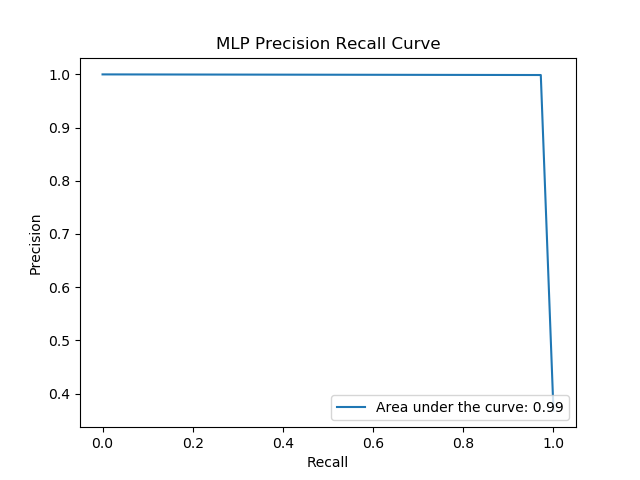
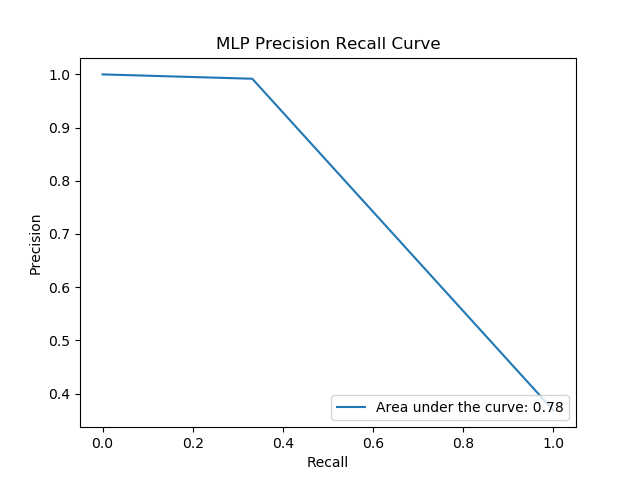
updated graphs

diff --git a/main.py b/main.py
@@ -25,7 +25,7 @@ def readCSV():
     titles = data[0]
     data = np.array(data[1:])
     
-
+    # pylint: disable=unsubscriptable-object
     end_idx = data.shape[1]-1
     for i in range(end_idx+1):
         try:
@@ -84,7 +84,7 @@ def main():
         if (save_plots):
             plot_auc("KNN", t_test, knn_classifier.predict(x_test))
             plot_prec_rec("KNN", t_test, knn_classifier.predict(x_test))
-            # plot_learning_curve(knn_classifier, "KNN", x_train, t_train)
+            plot_learning_curve(knn_classifier, "KNN", x_train, t_train)
 
     if all_models or 'sgd' in subset:    
         sgd_classifier = get_sgd(x_train, t_train, x_val, t_val, search)
@@ -92,7 +92,7 @@ def main():
         if (save_plots):
             plot_auc("SGD", t_test, sgd_classifier.predict(x_test))
             plot_prec_rec("SGD", t_test, sgd_classifier.predict(x_test))
-            # plot_learning_curve(sgd_classifier, "SGD", x_train, t_train)
+            plot_learning_curve(sgd_classifier, "SGD", x_train, t_train)
 
     if all_models or 'mlp' in subset:   
         mlp_classifier = get_mlp(x_train, t_train, x_val, t_val, search)
@@ -100,7 +100,7 @@ def main():
         if (save_plots):
             plot_auc("MLP", t_test, mlp_classifier.predict(x_test))
             plot_prec_rec("MLP", t_test, mlp_classifier.predict(x_test))
-            # plot_learning_curve(mlp_classifier, "MLP", x_train, t_train)
+            plot_learning_curve(mlp_classifier, "MLP", x_train, t_train)
 
     majority_guess = get_majority(x_train, t_train)
     uniform_guess = get_uniform(x_train, t_train)
@@ -177,7 +177,7 @@ def get_knn(x_train, t_train, x_val, t_val, search=False):
     # KNN tested at (array([0.88484087, 0.88107203, 0.89007538, 0.88628272, 0.89256545]), 0.6603707265070087, 0.9209732808442919)
     if search:
         knn_params = param_sel(x_train, t_train, KNeighborsClassifier(), {
-            'n_neighbors': [ 3, 10, 20],
+            'n_neighbors': [ 1, 3, 5, 10, 20],
             'weights': ['uniform', 'distance'],
             'algorithm': ['ball_tree', 'kd_tree',],
             'p': [1, 2]})
@@ -226,7 +226,7 @@ def get_mlp(x_train, t_train, x_val, t_val, search=False):
     if search:
 
         mlp_params = param_sel(x_train, t_train, MLPClassifier(max_iter=1000), {
-            'alpha': [ 0.01, 0.06, 0.1, 0.6],
+            'alpha': [ 0.06, 0.1,],
             'hidden_layer_sizes': [(20,20,10), (100,)],
             'activation': ['relu', 'tanh'],
             'solver': ['sgd', 'adam'],

diff --git a/paper/paper.tex b/paper/paper.tex
@@ -69,7 +69,7 @@ T\kern-.1667em\lower.7ex\hbox{E}\kern-.125emX}}
 \section{Evaluating Performance}
  While the relatively low class imbalance of this binary classification problem means that raw accuracy is still meaningful, it is still preferable to find a different metric to better represent the trade-off between precision and recall. Towards this end, the models are evaluated primarily using the \emph{Area Under the Receiver Operating Characteristic Curve} (ROC AUC), a tool used specifically for determining the predictive ability of a binary classifier as the threshold between precision and recall is varied\cite{Fawcett2006}. For this metric, a perfect score is 1 while the worst possible score is 0.5 (this is because in a binary classifier, being 0\% correct is equivalent to being 100\% correct). In addition to the ROC AUC, the \emph{f\textsubscript{1}} score\cite{rijsbergen_1995} and raw accuracy are also included in the event that the reader is more comfortable with their relative values.
  
- Note that both of the naive predictors (\emph{majority guess} and \emph{uniform random guess}) will produce an ROC AUC score of very nearly 0.5, and an \emph{f\textsubscript{1}} score of 
+ Note that both of the naive predictors (\emph{majority guess} and \emph{uniform random guess}) will produce an ROC AUC score of very nearly 0.5, and very poor \emph{f\textsubscript{1}} scores (0 and 0.425 respectively).
 \section{Results}
 
 % \begin{figure}
